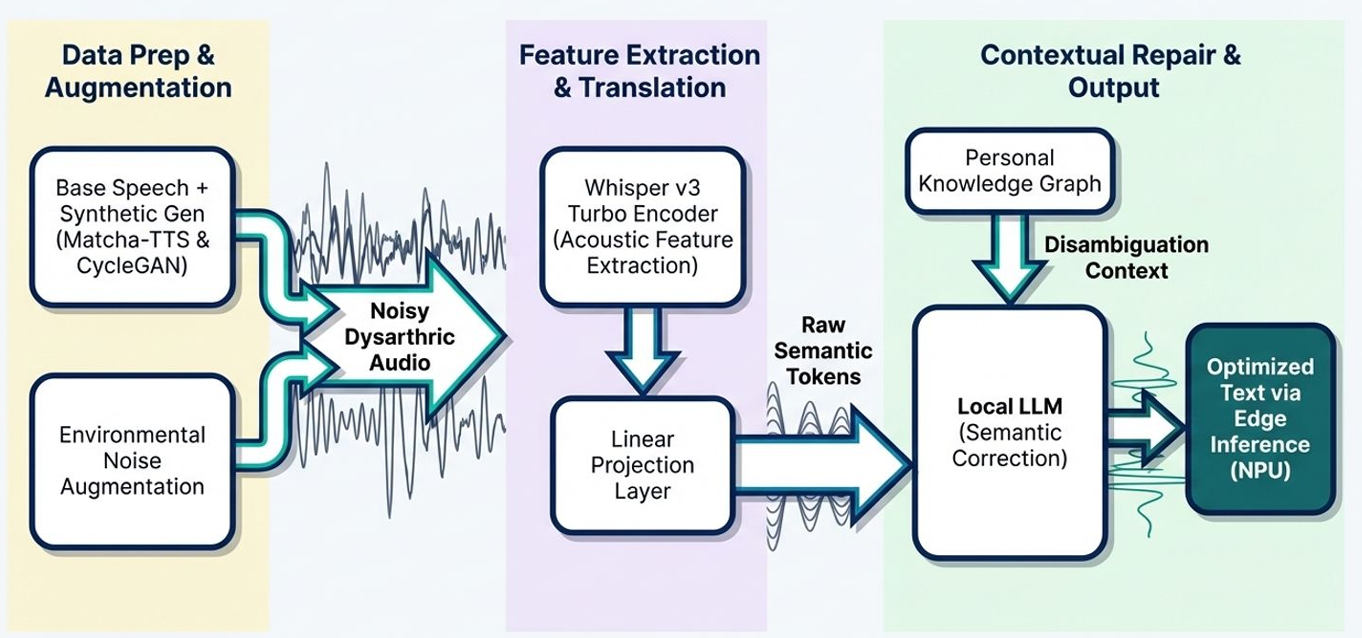
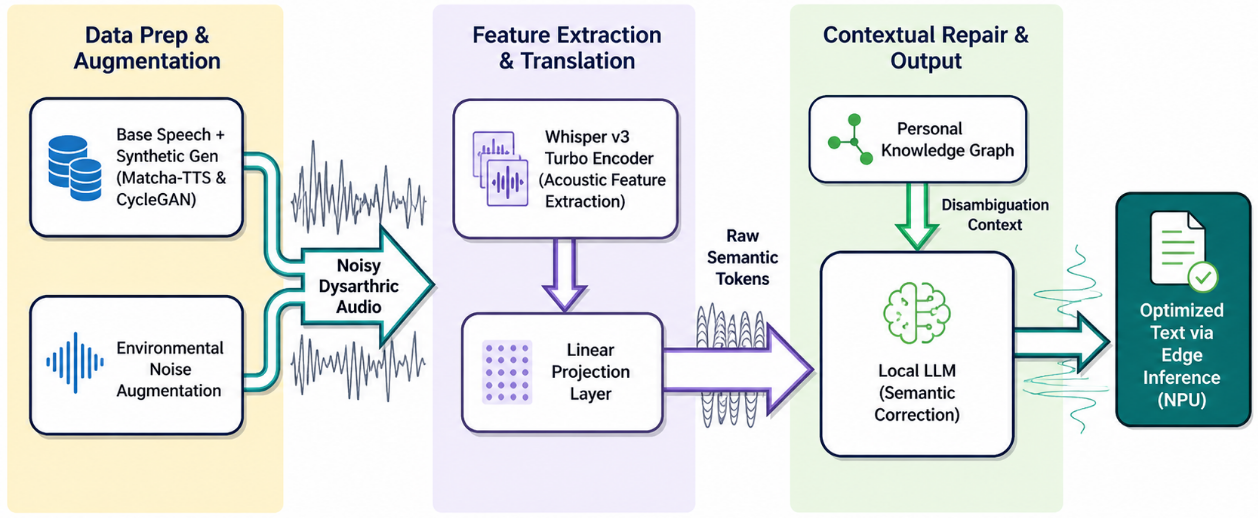
ok

diff --git a/Chapter3/chapter3-design.tex b/Chapter3/chapter3-design.tex
@@ -46,21 +46,21 @@ This structured pipeline ensures robustness at both acoustic and semantic levels
 \begin{figure}[H]
 	\centering
 	\includegraphics[width=1.0\textwidth]{Figures/system_pipeline_flow.png}
-	\caption{System Pipeline Flow: Audio $\rightarrow$ Whisper ASR $\rightarrow$ Text $\rightarrow$ LLM Correction $\rightarrow$ Corrected Text}
+	\caption{System Pipeline Flow}
 	\label{fig:system_pipeline}
 \end{figure}
 
 \begin{figure}[H]
 	\centering
 	\includegraphics[width=1.0\textwidth]{Figures/data_pipeline_augmentation.png}
-	\caption{Data Pipeline: Raw Dysarthric Speech $\rightarrow$ Augmented $\rightarrow$ Synthetic Generation $\rightarrow$ Training Dataset}
+	\caption{Data Pipeline}
 	\label{fig:data_pipeline}
 \end{figure}
 
 \begin{figure}[H]
 	\centering
 	\includegraphics[width=0.9\textwidth]{Figures/architecture_block_diagram.png}
-	\caption{System Architecture Block Diagram: Component Interactions and Data Flow}
+	\caption{System Architecture Block Diagram}
 	\label{fig:architecture}
 \end{figure}
 